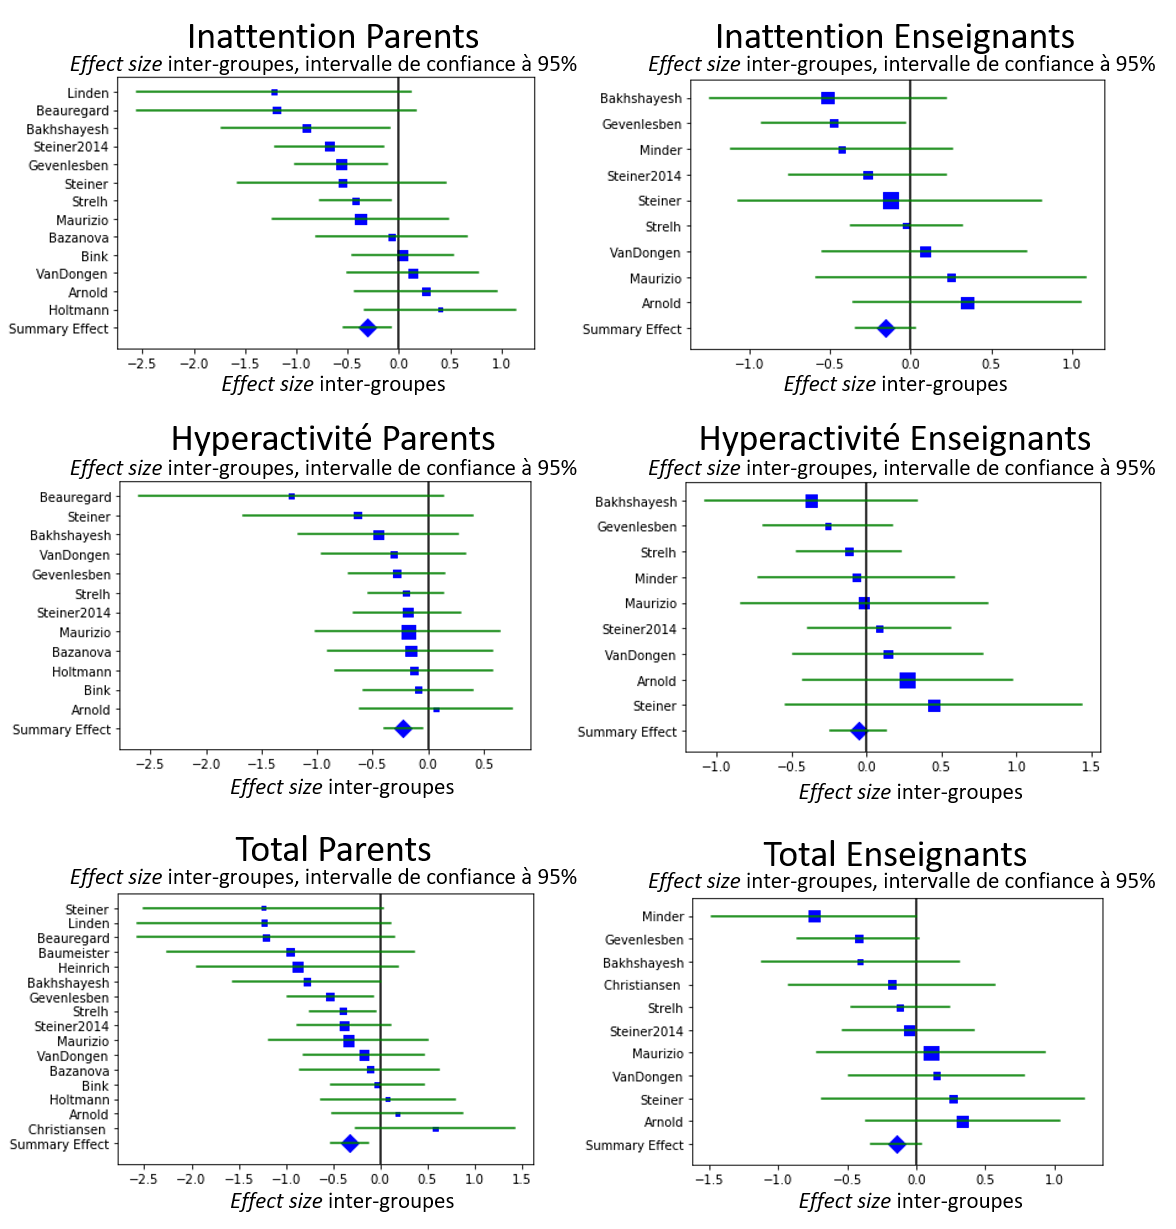
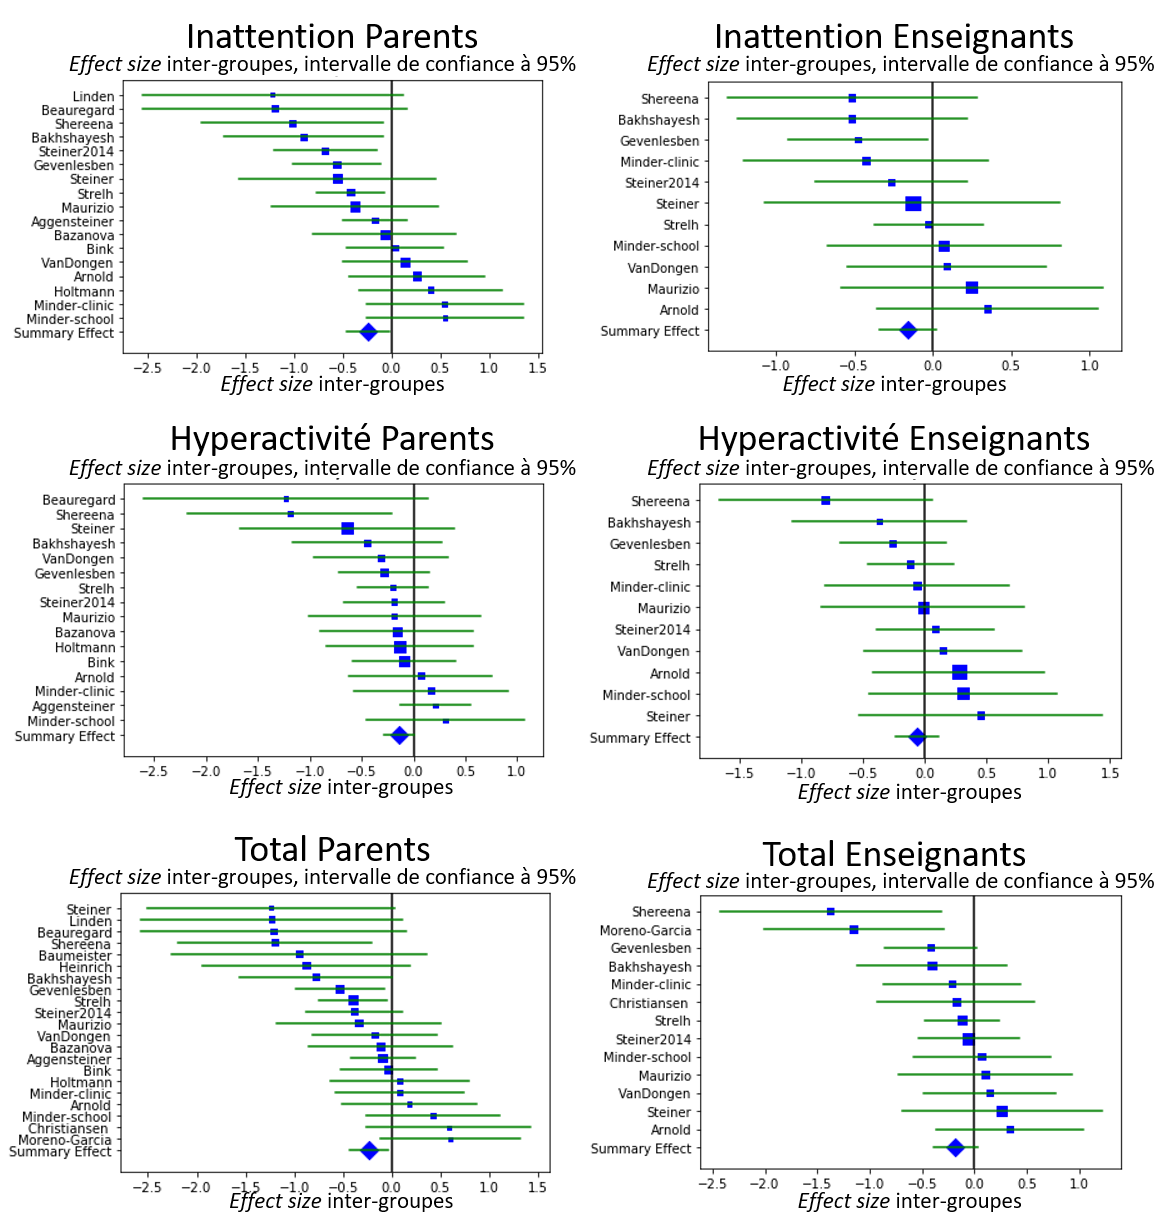
integration of comments in the results part

diff --git a/tables/chapter-2/table_meta_review_update_september_2019.tex b/tables/chapter-2/table_meta_review_update_september_2019.tex
@@ -2,14 +2,26 @@
 \toprule
 Articles & \shortstack{ Nombre de \\ sujets} & Résultats disponibles \\
 \toprule
+\multirow{2}{*}{ \citet{Baumeister2016} } & $8$ \gls{nfb} & parents : total \\
+                                          & $8$ contrôles & enseignants : / \\		
+\midrule
+\multirow{2}{*}{ \citet{Strehl2017} } & $72$ \gls{nfb} & parents : total, inattention, hyperactivité \\
+                                      & $68$ contrôles & enseignants : total, inattention, hyperactivité \\		
+\midrule
+\multirow{2}{*}{ \citet{Bazanova2018} } & $17$ \gls{nfb} & parents : total, inattention, hyperactivité \\
+                                        & $14$ contrôles & enseignants : / \\		
+\midrule
 \multirow{2}{*}{ \citet{Aggensteiner2019} } & $75$ \gls{nfb} & parents : total et inattention \\
                                           & $69$ contrôles & enseignants : / \\		
 \midrule
-\multirow{2}{*}{ \citet{Minder2018} } &  $19$ \gls{nfb} & parents : total, inattention, hyperactivité \\
+\multirow{2}{*}{ \citet{Minder2018} à l'école } & $19$ \gls{nfb} & parents : total, inattention, hyperactivité \\
                                       & $19$ contrôles & enseignants : total, inattention, hyperactivité \\ 
 \midrule
+\multirow{2}{*}{ \citet{Minder2018} en clinique } & $19$ \gls{nfb} & parents : total \\
+                                                  & $20$ contrôles & enseignants : total \\
+\midrule
 \multirow{2}{*}{ \citet{Moreno2019} } & $19$ \gls{nfb} & parents : total \\
-                                      & $19$ contrôles & enseignants : total \\
+                                                  & $19$ contrôles & enseignants : total \\
 \midrule
 \multirow{2}{*}{ \citet{Shereena2019} } & $15$ \gls{nfb} & parents : total, inattention, hyperactivité \\
                                       & $19$ contrôles & enseignants : total, inattention, hyperactivité \\
